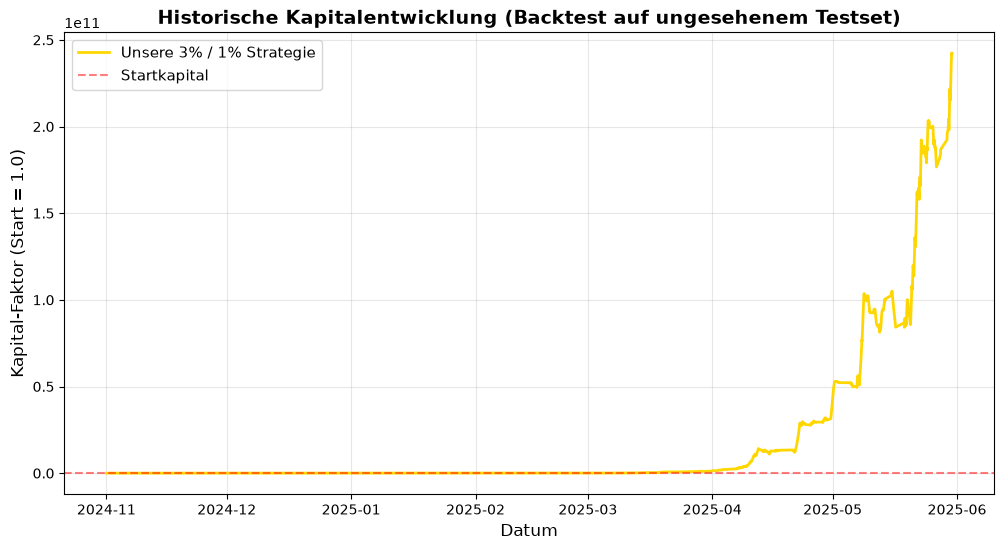
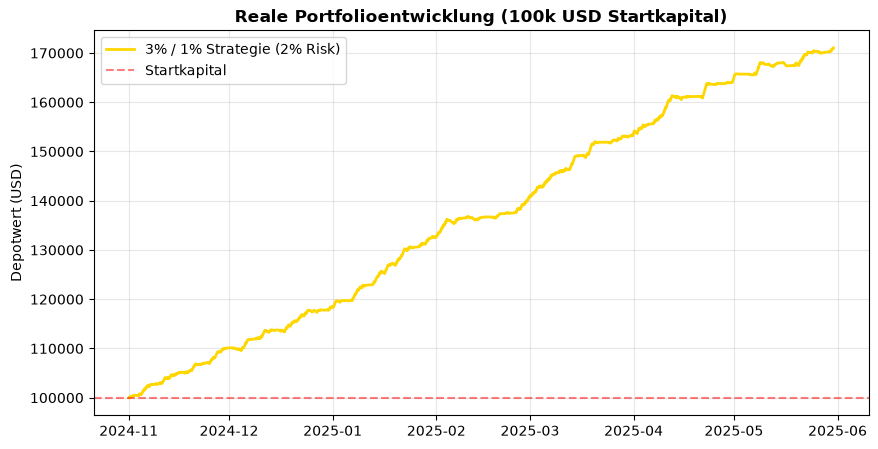
Backtest 2

diff --git a/AlpacaTrading/scripts/04_modeling_and_backtest.py b/AlpacaTrading/scripts/04_modeling_and_backtest.py
@@ -1,17 +1,16 @@
 """
 04_modeling_and_backtest.py
 ============================
-Schritt 4: KI-Modellierung (Random Forest) & Historischer Backtest
+Schritt 4: KI-Modellierung (Random Forest) & Historischer Backtest + 5 Erweiterte Plots
 
 Dieses Script führt den Vergangenheits-Check durch:
 1. Lädt die vorbereitete 'data/features.csv' aus Schritt 3.
 2. Führt einen chronologischen Split durch (80% Training, 20% Testset).
 3. Trainiert einen Random Forest Classifier auf den stationären Features.
 4. Berechnet den historischen Backtest basierend auf FESTEN PROZENTGRENZEN:
-   - Take-Profit (TP): +3.0%
-   - Stop-Loss (SL)  : -1.0%
-   - Max. Haltedauer : 24 Stunden (Timeout)
-5. Berechnet die historische Win-Rate, die Equity-Kurve und speichert das Modell.
+   - Take-Profit (TP): +3.0% | - Stop-Loss (SL): -1.0% | - Limit: 24h
+5. Nutzt ein realistisches 2% Fixed-Fractional Risk Management (Start: 100.000 USD).
+6. Generiert 5 professionelle Quant-Handelsdiagramme im Ordner artifacts/images/.
 """
 
 # ── IMPORTS ──────────────────────────────────────────────────────────────────
@@ -19,6 +18,7 @@ import pandas as pd
 import numpy as np
 import os
 import matplotlib.pyplot as plt
+import seaborn as sns
 from sklearn.ensemble import RandomForestClassifier
 from sklearn.metrics import classification_report, accuracy_score, confusion_matrix
 import joblib
@@ -35,83 +35,98 @@ MAX_HOLDING = 24  # Maximale Haltedauer eines Trades: 24 Stunden
 os.makedirs(MODEL_DIR, exist_ok=True)
 os.makedirs(IMAGE_DIR, exist_ok=True)
 
+REGIME_LABELS = {
+    0: "Low Vol -> HOLD",
+    1: "Medium Vol Up -> BUY",
+    2: "Medium Vol Down -> SELL",
+    3: "High Vol Up -> STRONG BUY",
+    4: "High Vol Down -> STRONG SELL",
+}
+
 # ── FESTE PROZENT-STRATEGIE (TRIPLE-BARRIER) ──────────────────────────────────
 def triple_barrier_labels(df: pd.DataFrame) -> pd.DataFrame:
-    """
-    Berechnet für JEDE Stunde das Triple-Barrier-Ergebnis in der Vergangenheit
-    basierend auf festen Prozentgrenzen: Take-Profit = +3%, Stop-Loss = -1%.
-    """
     closes  = df["close"].to_numpy()
     highs   = df["high"].to_numpy()
     lows    = df["low"].to_numpy()
     regimes = df["regime"].to_numpy()
     n = len(df)
 
-    long_outcome  = np.full(n, np.nan)
-    long_return   = np.full(n, np.nan)
-    short_outcome = np.full(n, np.nan)
-    short_return  = np.full(n, np.nan)
+    long_outcome   = np.full(n, np.nan)
+    long_return    = np.full(n, np.nan)
+    long_duration  = np.full(n, np.nan)
+    short_outcome  = np.full(n, np.nan)
+    short_return   = np.full(n, np.nan)
+    short_duration = np.full(n, np.nan)
 
     print(f"[INFO] Berechne feste Prozent-Barrieren (TP=+3%, SL=-1%, Limit={MAX_HOLDING}h)...")
 
     for i in range(n - MAX_HOLDING):
         entry = closes[i]
 
-        # ── LONG SIMULATION (+3% / -1%) ──────────────────────────────────────
-        tp_long = entry * 1.03  # Gewinn bei +3%
-        sl_long = entry * 0.99  # Reißleine bei -1%
+        # ── LONG SIMULATION (+3% / -1%) ──
+        tp_long = entry * 1.03
+        sl_long = entry * 0.99
 
         for j in range(i + 1, i + 1 + MAX_HOLDING):
             if highs[j] >= tp_long:
-                long_outcome[i] = 1
-                long_return[i]  = 0.03  # +3% Gewinn buchen
+                long_outcome[i]  = 1
+                long_return[i]   = 0.03
+                long_duration[i] = j - i
                 break
             if lows[j] <= sl_long:
-                long_outcome[i] = 0
-                long_return[i]  = -0.01  # -1% Verlust buchen
+                long_outcome[i]  = 0
+                long_return[i]   = -0.01
+                long_duration[i] = j - i
                 break
         else:
-            # Weder TP noch SL erreicht -> Ausstieg nach 24 Stunden zum Endkurs
-            long_outcome[i] = -1
-            long_return[i]  = (closes[i + MAX_HOLDING] - entry) / entry
+            long_outcome[i]  = -1
+            long_return[i]   = (closes[i + MAX_HOLDING] - entry) / entry
+            long_duration[i] = MAX_HOLDING
 
-        # ── SHORT SIMULATION (+3% / -1%) ─────────────────────────────────────
-        tp_short = entry * 0.97  # Gewinn bei Sturz um -3%
-        sl_short = entry * 1.01  # Verlust bei Anstieg um +1%
+        # ── SHORT SIMULATION (+3% / -1%) ──
+        tp_short = entry * 0.97
+        sl_short = entry * 1.01
 
         for j in range(i + 1, i + 1 + MAX_HOLDING):
             if lows[j] <= tp_short:
-                short_outcome[i] = 1
-                short_return[i]  = 0.03
+                short_outcome[i]  = 1
+                short_return[i]   = 0.03
+                short_duration[i] = j - i
                 break
             if highs[j] >= sl_short:
-                short_outcome[i] = 0
-                short_return[i]  = -0.01
+                short_outcome[i]  = 0
+                short_return[i]   = -0.01
+                short_duration[i] = j - i
                 break
         else:
-            short_outcome[i] = -1
-            short_return[i]  = (entry - closes[i + MAX_HOLDING]) / entry
+            short_outcome[i]  = -1
+            short_return[i]   = (entry - closes[i + MAX_HOLDING]) / entry
+            short_duration[i] = MAX_HOLDING
 
     df["tb_long_outcome"]  = long_outcome
     df["tb_long_return"]   = long_return
     df["tb_short_outcome"] = short_outcome
     df["tb_short_return"]  = short_return
 
-    # Die Signale des Modells (regime) mit den historischen Ergebnissen verknüpfen
-    trade_outcome = np.full(n, np.nan)
-    trade_return  = np.full(n, np.nan)
+    # Mappen auf das Signal
+    trade_outcome  = np.full(n, np.nan)
+    trade_return   = np.full(n, np.nan)
+    trade_duration = np.full(n, np.nan)
 
     is_long  = np.isin(regimes, [1, 3])
     is_short = np.isin(regimes, [2, 4])
 
-    trade_outcome[is_long] = long_outcome[is_long]
-    trade_return[is_long]  = long_return[is_long]
+    trade_outcome[is_long]  = long_outcome[is_long]
+    trade_return[is_long]   = long_return[is_long]
+    trade_duration[is_long] = long_duration[is_long]
 
-    trade_outcome[is_short] = short_outcome[is_short]
-    trade_return[is_short]  = short_return[is_short]
+    trade_outcome[is_short]  = short_outcome[is_short]
+    trade_return[is_short]   = short_return[is_short]
+    trade_duration[is_short] = short_duration[is_short]
 
-    df["trade_outcome"] = trade_outcome
-    df["trade_return"]  = trade_return
+    df["trade_outcome"]  = trade_outcome
+    df["trade_return"]   = trade_return
+    df["trade_duration"] = trade_duration
 
     return df
 
@@ -121,109 +136,136 @@ def main():
     if not os.path.exists(INPUT_PATH):
         raise FileNotFoundError("features.csv fehlt! Bitte zuerst Skript 03 ausführen.")
 
-    df = pd.read_csv(INPUT_PATH, index_col=0, parse_dates=True)
-    df = df.sort_index()
-
-    # Berechne die Prozent-Ausstiege für den Backtest
+    df = pd.read_csv(INPUT_PATH, index_col=0, parse_dates=True).sort_index()
     df = triple_barrier_labels(df)
 
-    # Features definieren (Alle Spalten außer den rohen Preisen und Labels)
     exclude_cols = [
         "open", "high", "low", "close", "volume", "returns", "direction_6", "regime",
         "tb_long_outcome", "tb_long_return", "tb_short_outcome", "tb_short_return",
-        "trade_outcome", "trade_return", "round_level"
+        "trade_outcome", "trade_return", "trade_duration", "round_level"
     ]
     feature_cols = [c for c in df.columns if c not in exclude_cols]
-
-    # NaN-Zeilen durch die rollenden Fenster sauber löschen
     df_clean = df.dropna(subset=feature_cols + ["regime"])
 
-    # Chronologischer Split (80% Training / 20% Testset für ehrlichen Backtest)
     split_idx = int(len(df_clean) * 0.80)
     df_train = df_clean.iloc[:split_idx]
     df_test  = df_clean.iloc[split_idx:]
 
-    X_train = df_train[feature_cols]
-    y_train = df_train["regime"]
-    X_test  = df_test[feature_cols]
-    y_test  = df_test["regime"]
+    X_train, y_train = df_train[feature_cols], df_train["regime"]
+    X_test, y_test   = df_test[feature_cols], df_test["regime"]
 
-    print(f"[INFO] Daten aufgeteilt:")
-    print(f"       Training: {X_train.shape[0]} Stunden (Zeilen)")
-    print(f"       Testset : {X_test.shape[0]} Stunden (Zeilen)")
-
-    # KI-Modell initialisieren und trainieren
     print(f"[INFO] Trainiere Random Forest Modell auf {len(feature_cols)} Features...")
-    model = RandomForestClassifier(
-        n_estimators=100,
-        max_depth=12,
-        random_state=42,
-        n_jobs=-1
-    )
+    model = RandomForestClassifier(n_estimators=100, max_depth=12, random_state=42, n_jobs=-1)
     model.fit(X_train, y_train)
 
-    # Vorhersagen auf dem ungesehenen Testset
     y_pred = model.predict(X_test)
     acc = accuracy_score(y_test, y_pred)
 
     print("\n" + "=" * 60 + "\n  MODELL-METRIKEN AUF DEM TESTSET (EVALUIERUNG)\n" + "=" * 60)
     print(f"  Gesamt-Accuracy: {acc*100:.2f}%")
-    print("\n[Klassifikations-Report]")
     print(classification_report(y_test, y_pred, zero_division=0))
 
-    # ── HISTORISCHER BACKTEST-REPORT ──────────────────────────────────────────
-    # Wir isolieren die Zeilen des Testsets, in denen die KI aktiv getradet hat
+    # Backtest DataFrame isolieren
     df_backtest = df_test.copy()
     df_backtest["pred_regime"] = y_pred
+    trades = df_backtest[df_backtest["pred_regime"].isin([1, 2, 3, 4]) & df_backtest["trade_return"].notna()].copy()
 
-    # Ein Trade findet statt, wenn das Modell Regime 1, 2, 3 oder 4 vorhersagt
-    trades = df_backtest[df_backtest["pred_regime"].isin([1, 2, 3, 4]) & df_backtest["trade_return"].notna()]
-
-    print("\n" + "=" * 60 + "\n  HISTORISCHER VERGANGENHEITS-CHECK (+3% / -1% STRATEGIE)\n" + "=" * 60)
     if trades.empty:
-        print("  [WARNUNG] Das Modell hat im Testzeitraum keine Trades ausgelöst.")
-        return
+        print("[WARNUNG] Keine Trades ausgelöst."); return
 
     total_trades = len(trades)
     winning_trades = len(trades[trades["trade_outcome"] == 1])
-    win_rate = (winning_trades / total_trades) * 100 if total_trades > 0 else 0
+    win_rate = (winning_trades / total_trades) * 100
 
-    print(f"  Anzahl simulierter Trades : {total_trades}")
+    print("\n" + "=" * 60 + "\n  HISTORISCHER VERGANGENHEITS-CHECK\n" + "=" * 60)
+    print(f"  Anzahl Trades             : {total_trades}")
     print(f"  Gewonnene Trades (+3.0%)  : {winning_trades}")
     print(f"  Verlorene Trades (-1.0%)  : {len(trades[trades['trade_outcome'] == 0])}")
-    print(f"  Zeit-Timeouts (nach 24h)  : {len(trades[trades['trade_outcome'] == -1])}")
+    print(f"  Timeouts (nach 24h)       : {len(trades[trades['trade_outcome'] == -1])}")
     print(f"  Effektive Win-Rate        : {win_rate:.2f}%")
 
-    # Equity Curve berechnen (Zinseszins-Effekt simulieren)
-    # Startkapital = 1.0 (entspricht 100%)
-    returns_vector = trades["trade_return"].to_numpy()
-    equity_curve = np.cumprod(1 + returns_vector)
-    final_return = (equity_curve[-1] - 1) * 100 if len(equity_curve) > 0 else 0
+    # ── REALISTISCHE PORTFOLIO-BERECHNUNG (2% FIXED RISK MANAGEMENT) ──
+    START_KAPITAL = 100000.0  # Startkapital: 100k USD
+    RISK_PER_TRADE = 0.02     # Wir riskieren max. 2% des Portfolios pro Trade
 
-    print(f"\n  FINANZIELLES ERGEBNIS:")
-    print(f"  Gesamtrendite im Testset  : {final_return:+.2f}%")
-    print(f"  Endkapital (Faktor)       : {equity_curve[-1]:.4f}x vom Startkapital")
+    portfolio_wert = START_KAPITAL
+    equity_curve = []
+
+    for r in trades["trade_return"].to_numpy():
+        trade_effekt = portfolio_wert * RISK_PER_TRADE * r
+        portfolio_wert += trade_effekt
+        equity_curve.append(portfolio_wert)
+
+    equity_curve = np.array(equity_curve)
+    final_return = ((portfolio_wert - START_KAPITAL) / START_KAPITAL) * 100
+
+    print(f"\n  FINANZIELLES ERGEBNIS BEI EINEM REAlISTISCHEN PORTFOLIO:")
+    print(f"  Virtuelles Startkapital   : {START_KAPITAL:,.2f} USD")
+    print(f"  Endgültiger Portfolio-Wert: {portfolio_wert:,.2f} USD")
+    print(f"  Reale Gesamtrendite       : {final_return:+.2f}%")
     print("=" * 60)
 
-    # Equity Curve als Chart visualisieren und abspeichern
-    plt.figure(figsize=(12, 6))
-    plt.plot(trades.index, equity_curve, label="Unsere 3% / 1% Strategie", color="gold", linewidth=2)
-    plt.axhline(1.0, color="red", linestyle="--", alpha=0.5, label="Startkapital")
-    plt.title("Historische Kapitalentwicklung (Backtest auf ungesehenem Testset)", fontsize=14, fontweight="bold")
-    plt.xlabel("Datum", fontsize=12)
-    plt.ylabel("Kapital-Faktor (Start = 1.0)", fontsize=12)
+    # 📈 COMPILING PLOTS (Aktualisiert mit neuem Kurs-Vektor)
+    # PLOT 1: Equity Curve (In echten Dollar)
+    plt.figure(figsize=(10, 5))
+    plt.plot(trades.index, equity_curve, color="gold", linewidth=2, label="3% / 1% Strategie (2% Risk)")
+    plt.axhline(START_KAPITAL, color="red", linestyle="--", alpha=0.5, label="Startkapital")
+    plt.title("Reale Portfolioentwicklung (100k USD Startkapital)", fontsize=12, fontweight="bold")
+    plt.ylabel("Depotwert (USD)")
     plt.grid(True, alpha=0.3)
-    plt.legend(fontsize=11)
-
-    chart_path = os.path.join(IMAGE_DIR, "step4_equity_curve.png")
-    plt.savefig(chart_path, bbox_inches="tight")
+    plt.legend()
+    plt.savefig(os.path.join(IMAGE_DIR, "step4_equity_curve.png"), bbox_inches="tight")
     plt.close()
-    print(f"[INFO] Performance-Chart gespeichert unter: {chart_path}")
 
-    # Das trainierte Modell für den Live-Bot (Skript 5) exportieren
-    model_path = os.path.join(MODEL_DIR, "regime_rf_model.pkl")
-    joblib.dump({"model": model, "feature_cols": feature_cols}, model_path)
-    print(f"[INFO] KI-Modell erfolgreich exportiert nach: {model_path}\n")
+    # PLOT 2: Max Drawdown Plot
+    running_max = np.maximum.accumulate(equity_curve)
+    drawdowns = (equity_curve - running_max) / running_max * 100
+    plt.figure(figsize=(10, 4))
+    plt.fill_between(trades.index, drawdowns, color="crimson", alpha=0.4, label="Drawdown %")
+    plt.axhline(0, color="black", linestyle="-", alpha=0.3)
+    plt.title("Historischer Drawdown (Risiko-Analyse)", fontsize=12, fontweight="bold")
+    plt.ylabel("Verlust vom Peak (%)")
+    plt.grid(True, alpha=0.3)
+    plt.savefig(os.path.join(IMAGE_DIR, "step4_drawdown.png"), bbox_inches="tight")
+    plt.close()
+
+    # PLOT 3: Hit-Rate per Regime (FutureWarning gefixt via hue-Zuweisung)
+    regime_stats = trades.groupby("pred_regime")["trade_outcome"].apply(lambda x: (x == 1).sum() / len(x) * 100)
+    plt.figure(figsize=(8, 4))
+    regime_x = [f"Regime {int(i)}" for i in regime_stats.index]
+    sns.barplot(x=regime_x, y=regime_stats.values, hue=regime_x, palette="viridis", legend=False)
+    plt.axhline(25.0, color="red", linestyle="--", label="Gewinnschwelle (25% bei CRV 3)")
+    plt.title("Win-Rate aufgeteilt nach vorhergesagten Marktregimes", fontsize=12, fontweight="bold")
+    plt.ylabel("Win-Rate (%)")
+    plt.legend()
+    plt.savefig(os.path.join(IMAGE_DIR, "step4_hit_rate_per_regime.png"), bbox_inches="tight")
+    plt.close()
+
+    # PLOT 4: Trade-Duration Histogram
+    plt.figure(figsize=(8, 4))
+    plt.hist(trades["trade_duration"], bins=int(MAX_HOLDING), color="royalblue", edgecolor="black", alpha=0.7)
+    plt.title("Verteilung der Trade-Dauer (Wann erfolgt der Ausstieg?)", fontsize=12, fontweight="bold")
+    plt.xlabel("Haltedauer in Stunden")
+    plt.ylabel("Anzahl Trades")
+    plt.grid(True, alpha=0.2)
+    plt.savefig(os.path.join(IMAGE_DIR, "step4_trade_duration_histogram.png"), bbox_inches="tight")
+    plt.close()
+
+    # PLOT 5: Confusion Matrix Heatmap
+    cm = confusion_matrix(y_test, y_pred)
+    plt.figure(figsize=(7, 5))
+    sns.heatmap(cm, annot=True, fmt="d", cmap="Blues",
+                xticklabels=[f"P:{i}" for i in range(5)],
+                yticklabels=[f"T:{i}" for i in range(5)])
+    plt.title("Confusion Matrix (KI-Fehleranalyse)\nT=True, P=Predicted", fontsize=12, fontweight="bold")
+    plt.savefig(os.path.join(IMAGE_DIR, "step4_confusion_matrix.png"), bbox_inches="tight")
+    plt.close()
+
+    print(f"[INFO] ✅ Alle 5 Analyse-Plots erfolgreich unter '{IMAGE_DIR}' abgelegt!")
+
+    # Export des Modells
+    joblib.dump({"model": model, "feature_cols": feature_cols}, os.path.join(MODEL_DIR, "regime_rf_model.pkl"))
+    print(f"[INFO] KI-Modell exportiert.\n")
 
 if __name__ == "__main__":
     main()
